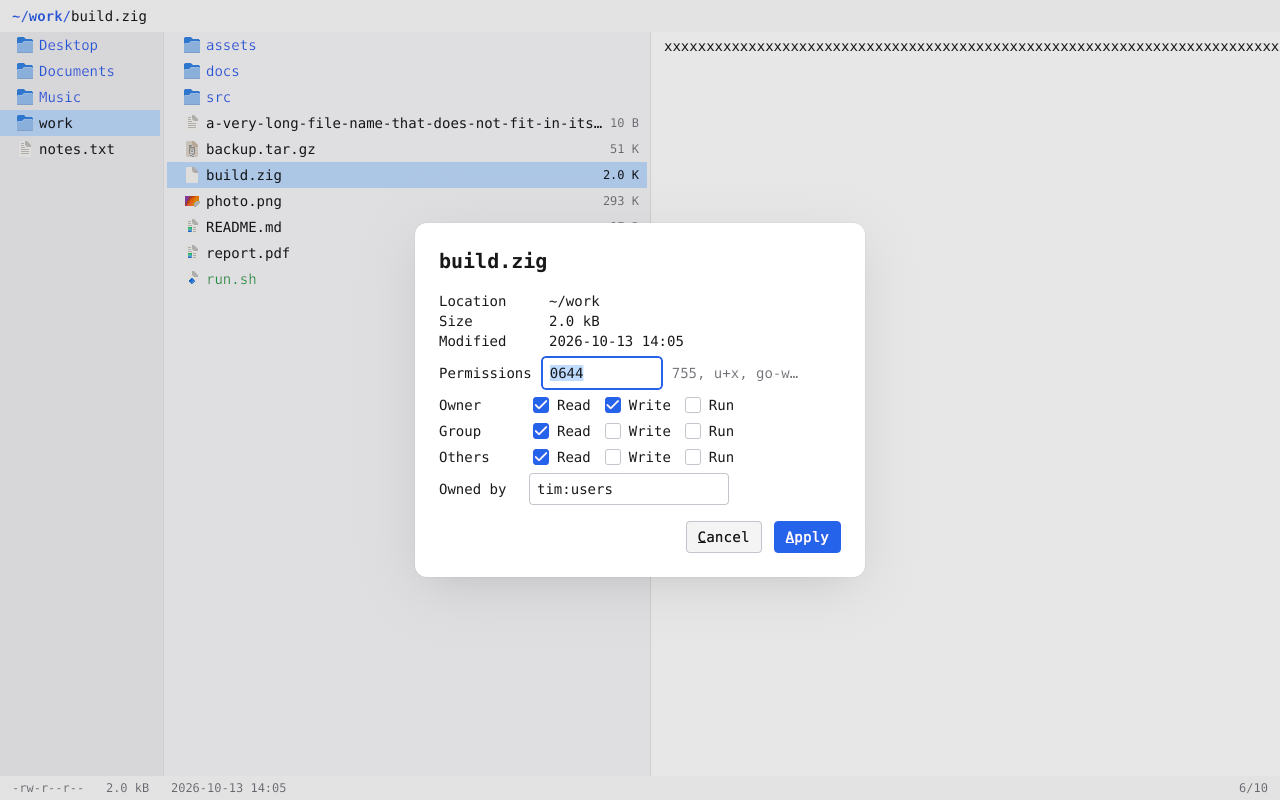
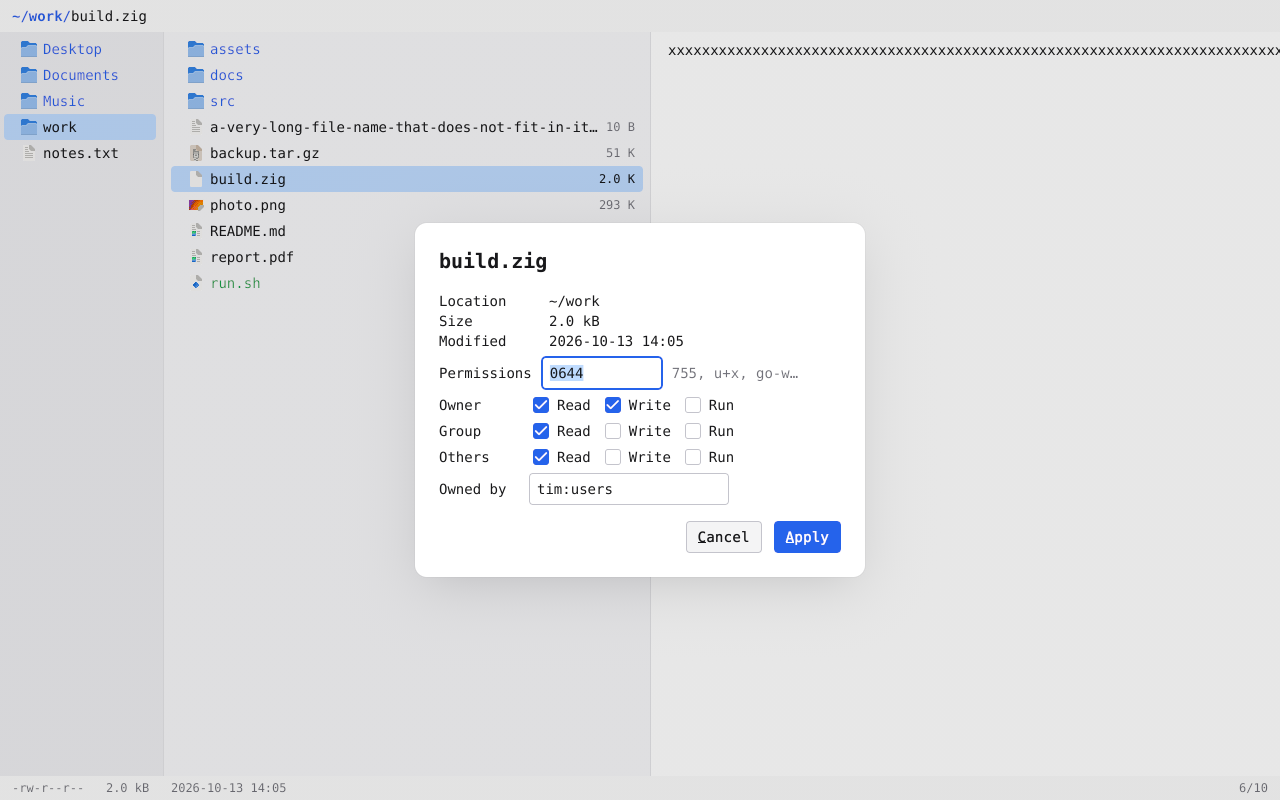
theme: keep Keywork's rounded, inset rows
The cursor's row is rounded and inset again, as Keywork draws a list's
rows, rather than siv's square, full-width bar.

Changed region(s): [[0.0, 0.0312, 0.5, 0.375], [0.5312, 0.0312, 1.0, 0.0938]]

diff --git a/crates/strider/src/theme.rs b/crates/strider/src/theme.rs
@@ -18,7 +18,7 @@ use std::time::Duration;
 use keywork::desktop::watch::{DirWatcher, WatchId};
 use keywork::prelude::*;
 use keywork::theme::{
-    Appearance, ColorRole, Corner, Len, Paint, Palette as Scale, Seeds, Theme, contrast_ratio,
+    Appearance, ColorRole, Paint, Palette as Scale, Seeds, Theme, contrast_ratio,
 };
 use keywork::{FontFamily, Instant, Timer};
 use strider_core::omarchy::{Key, Mode, Palette, Rgba, mix, theme_dirs};
@@ -556,8 +556,7 @@ fn desktop_accent(theme: &Theme) -> Option<keywork::Color> {
 }
 
 /// What the window does to every theme it gets: text in monospace, or the family
-/// Fontconfig names for it since the configuration changed, Strider's tones, and the column
-/// lists' rows square and edge to edge. Without an Omarchy theme, siv's palette in the
+/// Fontconfig names for it since the configuration changed, and Strider's tones. Without an Omarchy theme, siv's palette in the
 /// desktop's light or dark, with its accent. Under an Omarchy theme, its mode, whatever the
 /// desktop prefers. In higher contrast, siv's high-contrast palette, an Omarchy theme's mode
 /// kept, as siv had it: Omarchy's themes have no high-contrast variant, and theirs would undo
@@ -584,8 +583,6 @@ pub fn map(
             None => theme,
         };
         theme.fonts.ui = family;
-        theme.styles.list.inset = Len::Px(0.0);
-        theme.styles.list.corner = Corner::Square;
         // The picker's, the tasks', and the which-key popup's cards, in siv's border.
         theme.styles.surface.card.border = Some(ColorRole::Border.paint());
         match tones {
@@ -883,8 +880,7 @@ mod tests {
 
     // Without Omarchy, the colors the Zig build's goldens show, siv's built-in palette, in
     // light, dark, and higher contrast in each: the three column tones, the chrome, the
-    // cursor's row and its text, folders' accent, and the dividers. The column lists' rows
-    // are square and edge to edge in each.
+    // cursor's row and its text, folders' accent, and the dividers.
     #[test]
     fn without_omarchy_strider_wears_siv_s_palette() {
         let hex = |c: u32| Color::hex(c).to_srgba8();
@@ -937,8 +933,6 @@ mod tests {
                     "{desktop:?} {paint:?}"
                 );
             }
-            assert_eq!(t.styles.list.inset, Len::Px(0.0));
-            assert_eq!(t.styles.list.corner, Corner::Square);
         }
         // The cursor's row reads on the selection: dark text on light blue, white on the
         // solid accent in higher contrast.
@@ -1003,9 +997,6 @@ mod tests {
         }
         let t = theme(&mut h);
         assert_eq!(t.appearance, Appearance::Light);
-        // The column lists' rows stay square and edge to edge through the switch.
-        assert_eq!(t.styles.list.inset, Len::Px(0.0));
-        assert_eq!(t.styles.list.corner, Corner::Square);
         assert_eq!(
             t.color(Tone::Preview.paint()).to_srgba8(),
             Color::hex(0xeff1f5).to_srgba8()
